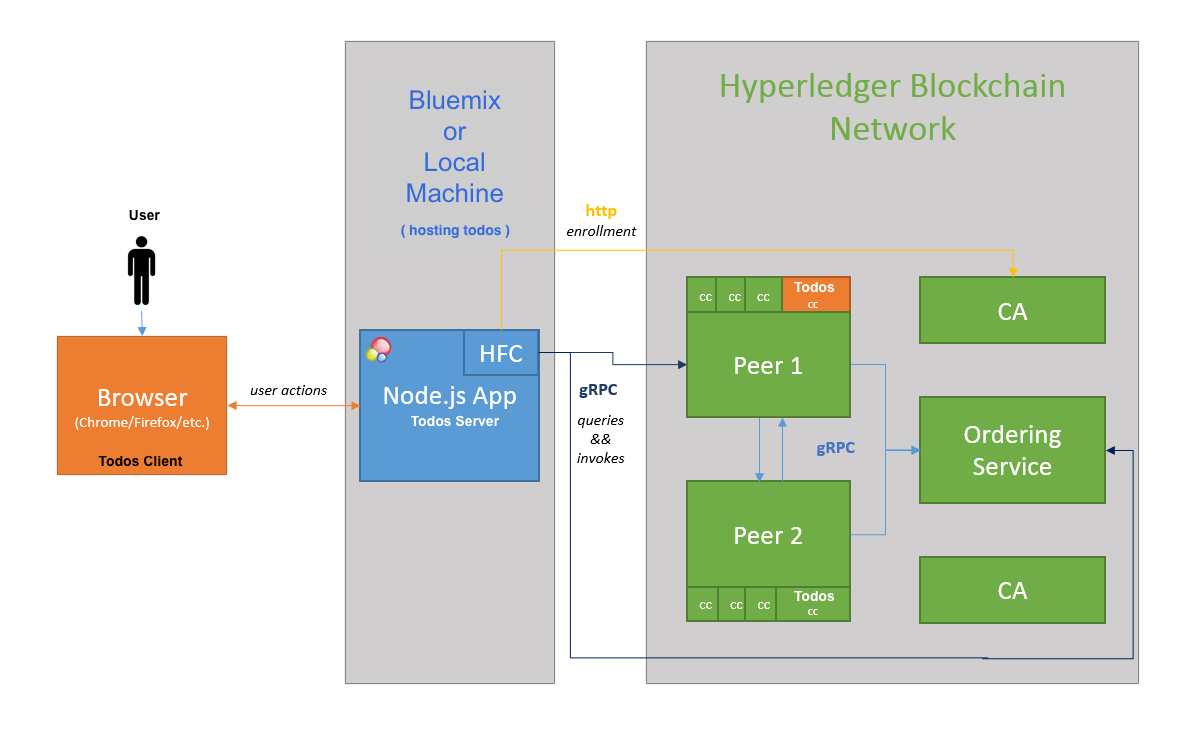
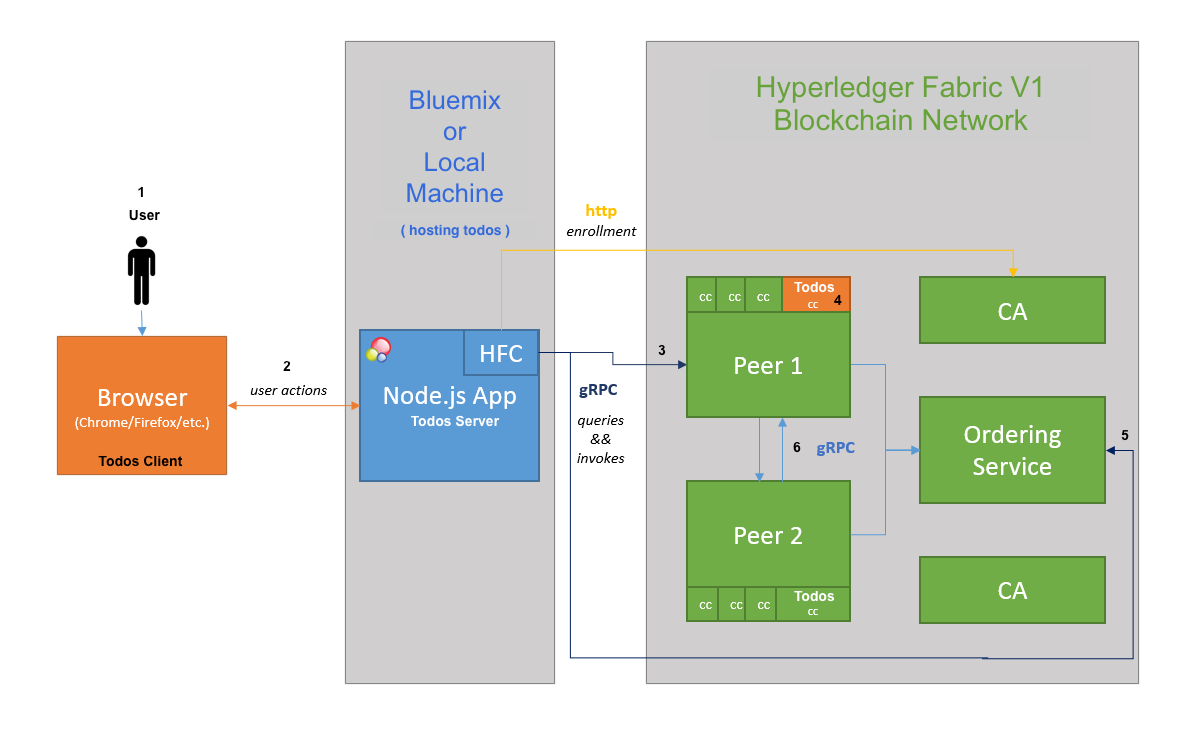
Update Readme v1.0

Changed region(s): [[0.5839, 0.093, 0.8912, 0.186]]

diff --git a/README.md b/README.md
@@ -1,4 +1,4 @@
-#  Implementing Common Transactions on IBM Blockchain - Hyperledger Fabric V1.
+#  Implementing Common Transactions on IBM Blockchain - Hyperledger Fabric V1
 
 This project is focused on helping a developer to migrate from Hyperledger Fabric V.6 to V1. It shows how to perform traditional data store transactions on IBM Blockchain. This surfaces as a web-based, to-do list application, allowing browse, read, edit, add, and delete (BREAD) operations.
 
@@ -260,14 +260,15 @@ You should see the following response:
 
 In a new terminal, navigate to the root of the `todo-list-fabric-client/web` directory.
 
-In order for the web-based to-do list application to work, it must be run from a web server. This server does not need to be publicly available in order for the application to function. On Mac, a common approach is to use the built-in PHP installation to run an in-place web server.
+In order for the web-based to-do list application to work, it must be run from a web server. This server does not need to be publicly available in order for the application to function.
 
+On Mac, a common approach is to use the built-in PHP installation to run an in-place web server.
 Run the PHP web server:
 ```bash
 php -S localhost:8081
 ```
 
-
+On windows, you can use [XAMPP](https://www.apachefriends.org/index.html)
 # 7. Using the todo list application
 
 With the web application loaded into the browser, you will first be presented with a login screen. The login dialog contains an IBM logo. Alt+Click on that logo to preload data into the blockchain. The only indication that this operation has been completed is a transaction ID in the developer console.
